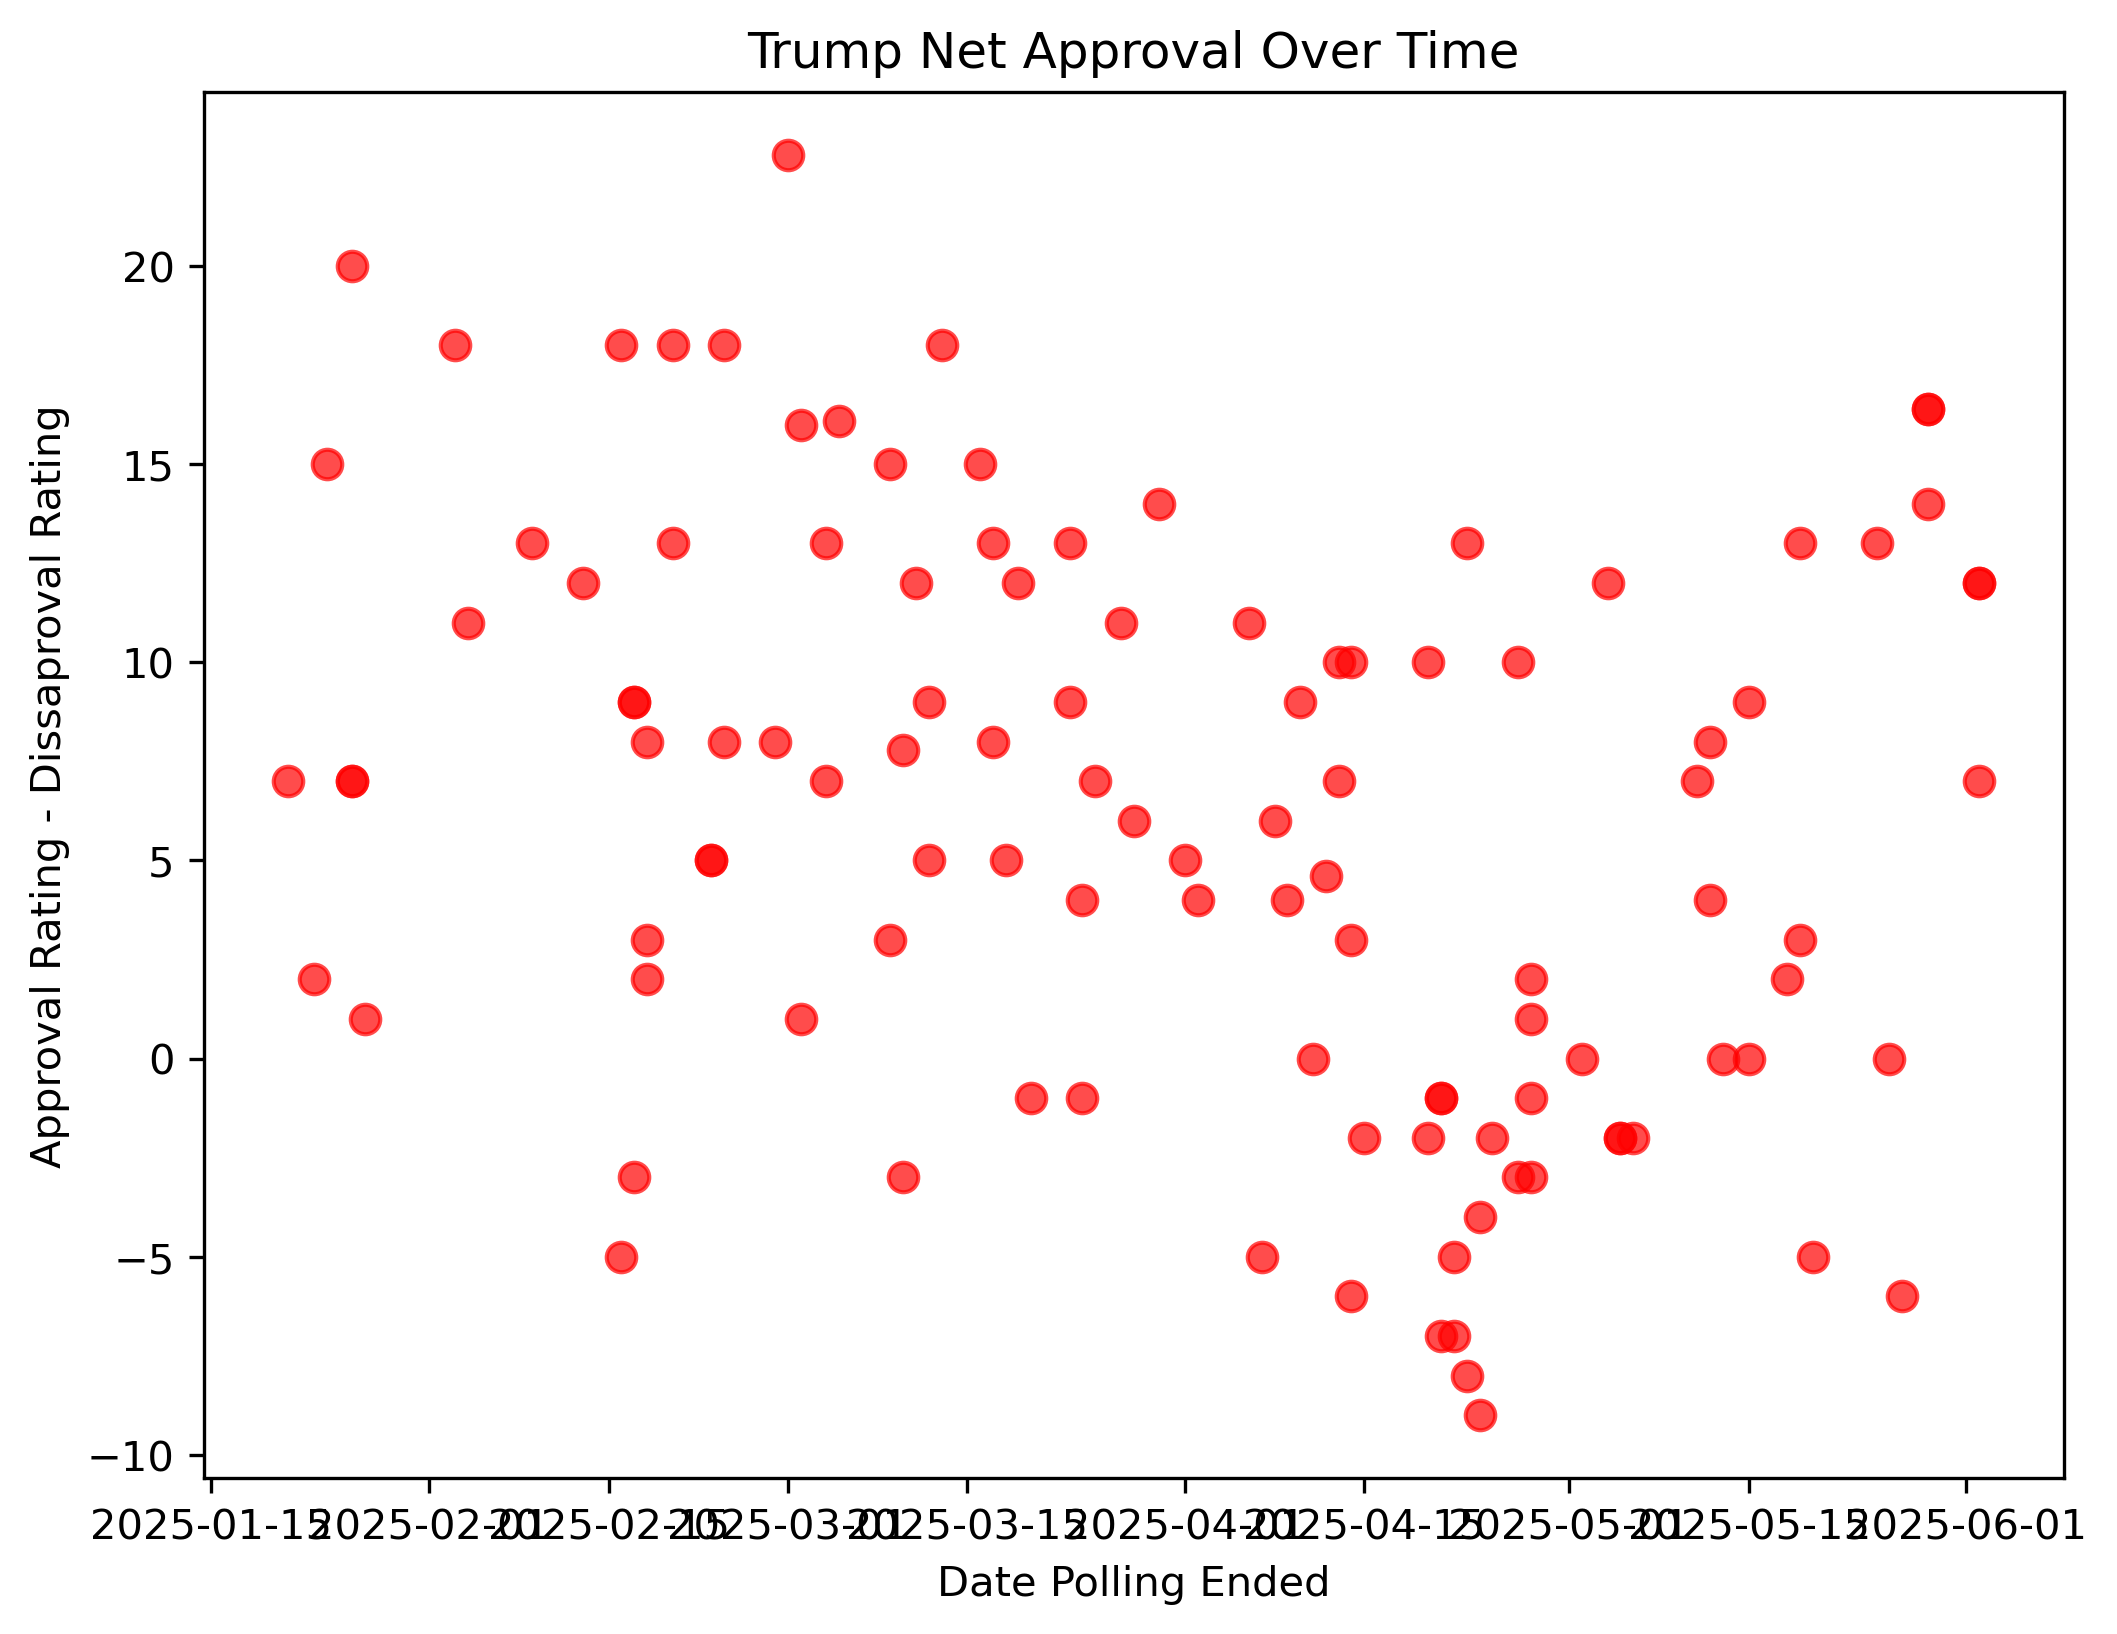
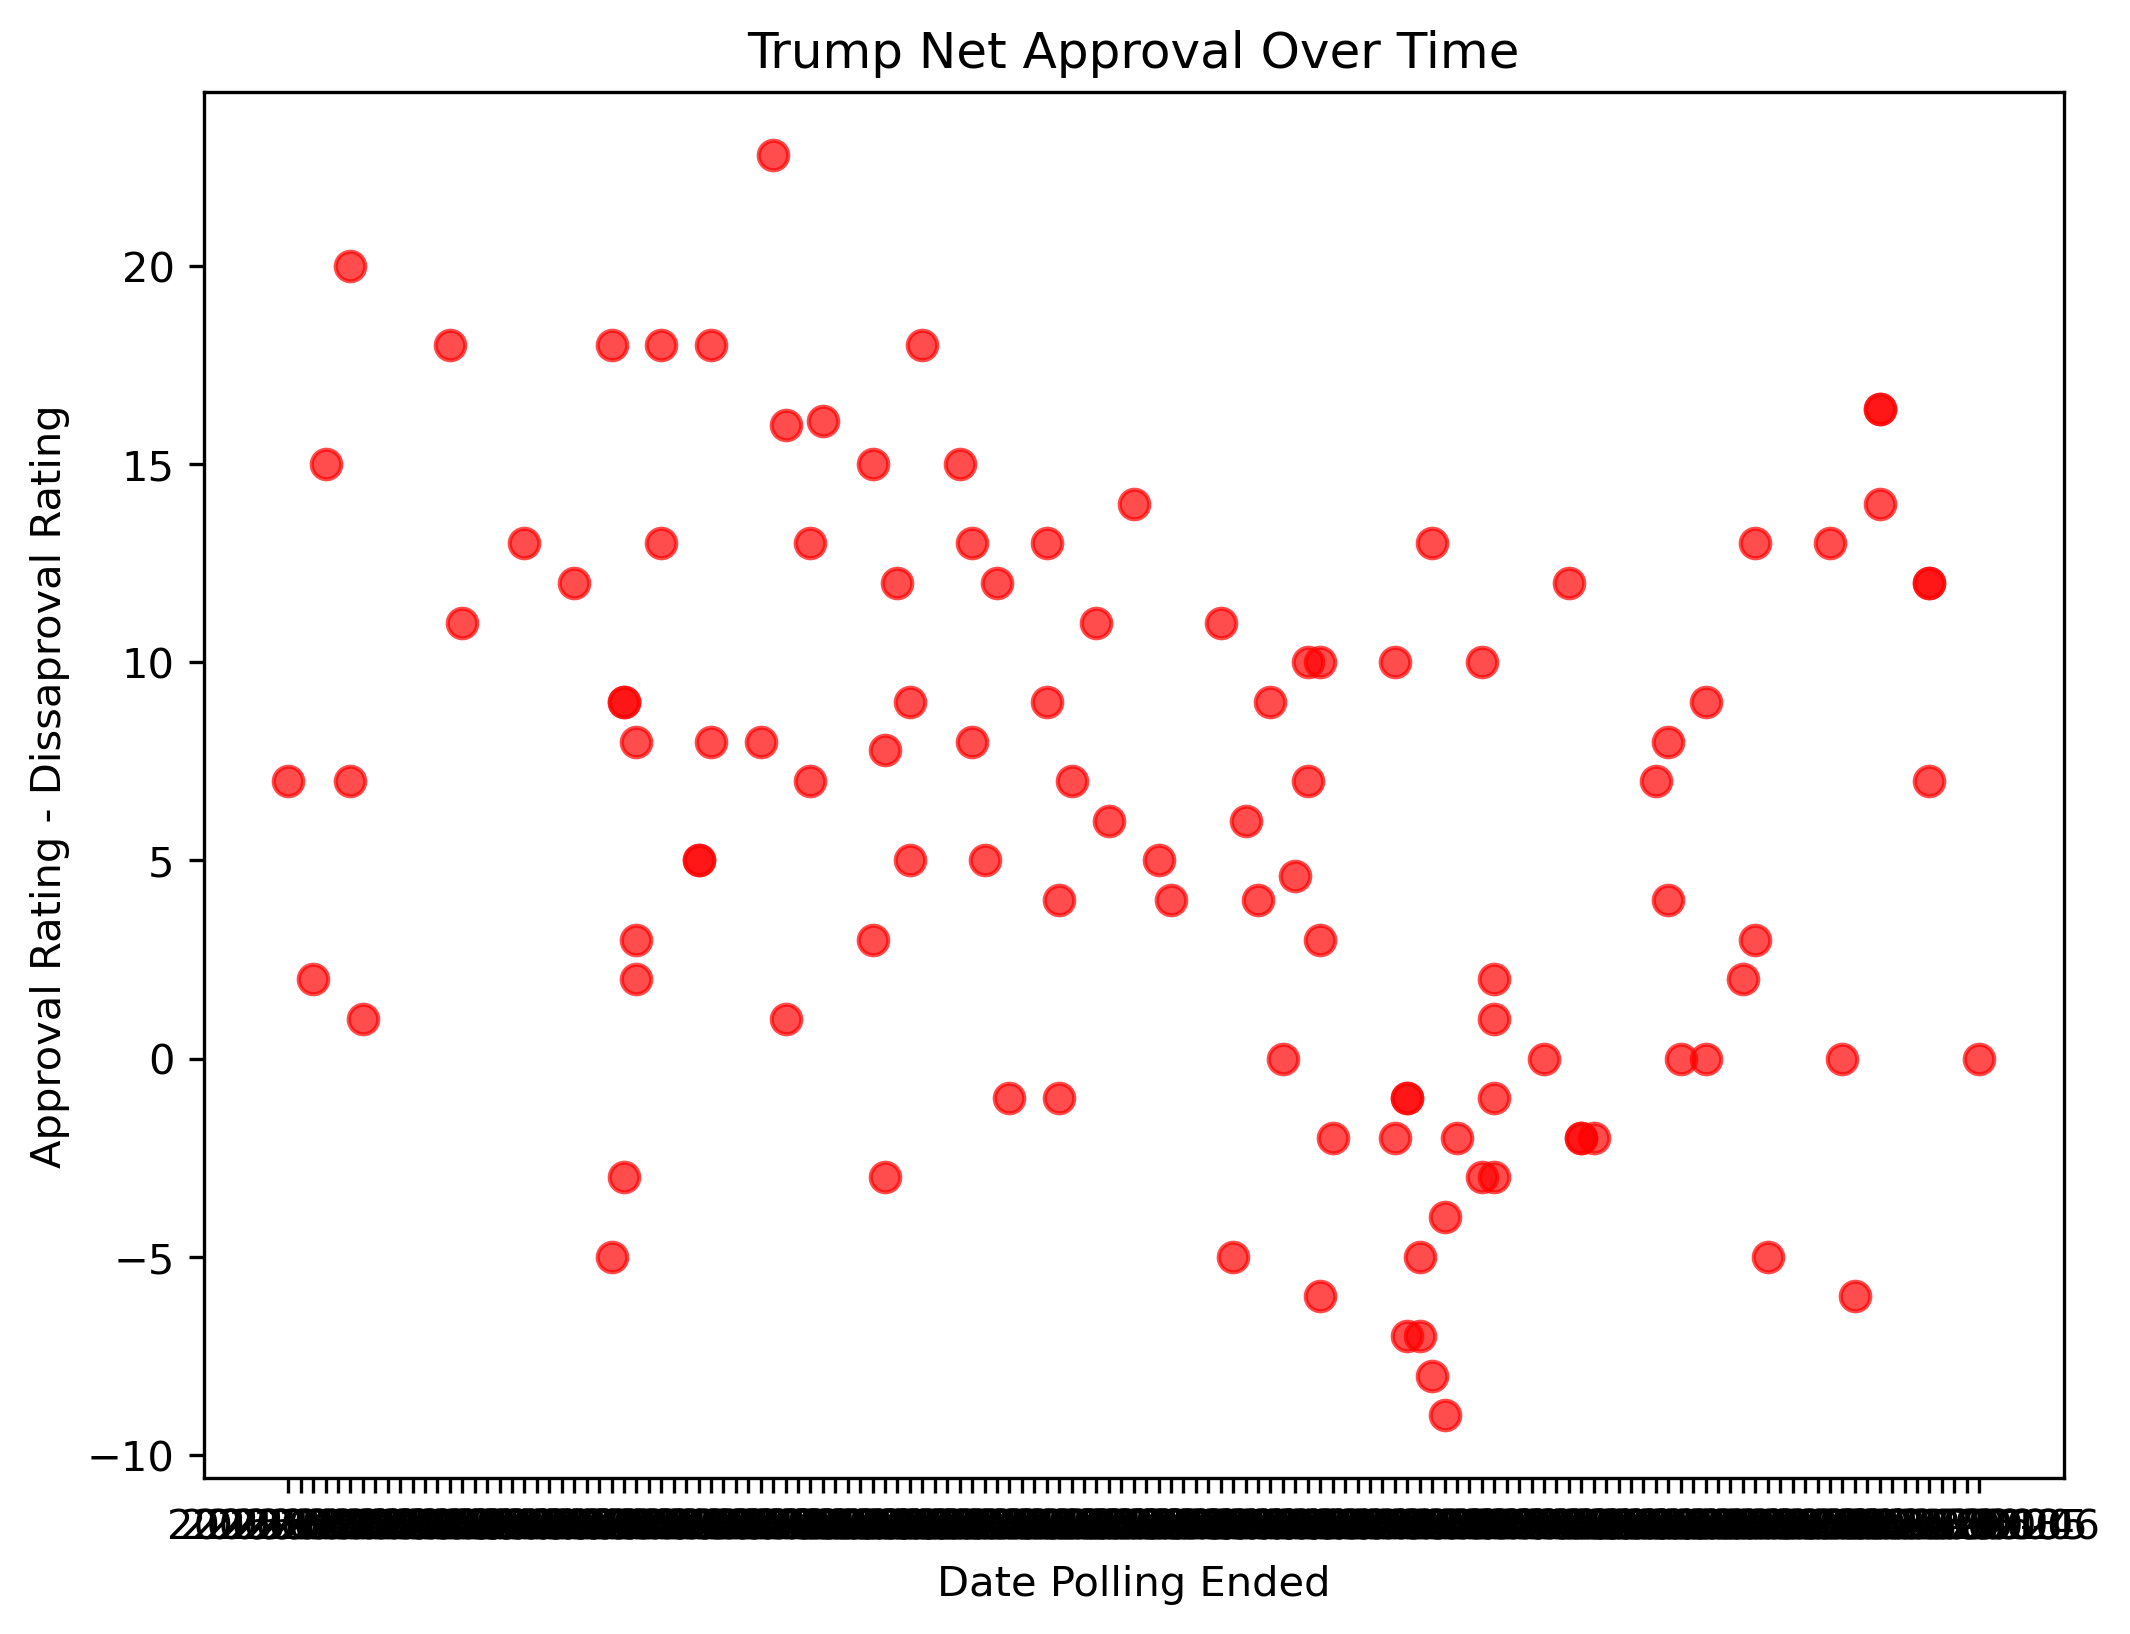
Cleaned Up Plot A Axis.

diff --git a/us_presidential_polling/trump_polling.py b/us_presidential_polling/trump_polling.py
@@ -73,6 +73,8 @@ plt.xlabel('Date Polling Ended')
 plt.ylabel('Approval Rating - Dissaproval Rating')
 plt.title('Trump Net Approval Over Time')
 
+plt.xticks(pd.date_range(start = min(df_plot['date_end']), end = max(df_plot['date_end'])))
+
 plt.grid(False)
 
 plt.savefig('trump_polling_scatter.png', dpi = 300, bbox_inches = 'tight')
